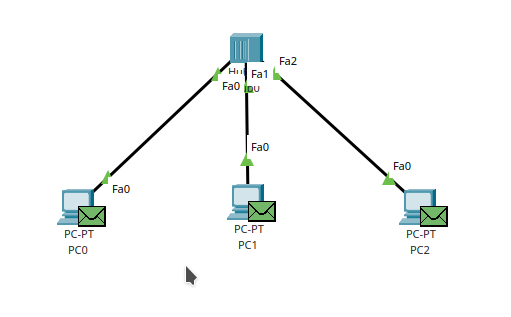
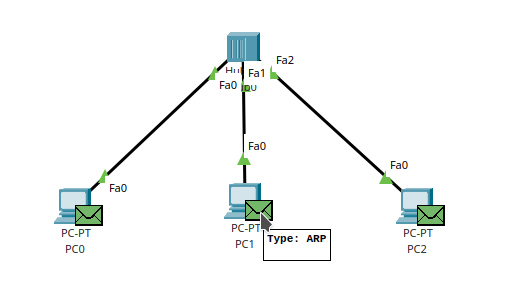
commit tugas3

Changed region(s): [[0.3816, 0.0918, 0.8806, 0.8878], [0.0881, 0.3061, 0.3816, 0.8571], [0.3523, 0.8265, 0.3816, 0.9184]]

diff --git a/praktikum3/README.md b/praktikum3/README.md
@@ -33,8 +33,51 @@ Setelah itu reset power cycle device nya
 
 ![hasil power cycle](asset/hasilpowercycle.png)
 
+Setelah semua persiapan sudah selesai, mari kita lakukan percobaan berikut ini
+1. ping pc0 ke pc1
 
-1. ping pc A ke pc B
+    Sebelum melakukan ping, mari kita cek terlebih dahulu kondisi tabel arp dari semua perangkat. Ketikkan 
+    
+        arp -d
+    
+    pada command prompt masing masing pc
 
-2. ping lagi dari pc A ke pc B
-3. ping pc A ke pc A
+    ![arp list](asset/arp%20list.png)
+
+    Setelah semua sudah dipastikan kosong tabel arp nya, sekarang kita jalankan terlebih dahulu simulation nya, karena dari capture persiapan setelah power cycle reset semua memiliki pesan arp yang siap dikirim. Pesan arp tersebut merupakan pesan awal yang tidak digunakan untuk mencari perangkat lain.
+
+    ![burn arp](asset/burn%20arp.png) 
+
+    Untuk mengawali percobaan ini, mari kita lakukan ping terlebih dahulu dari pc0, sebelumnya kita cek tabel arpnya sekali lagi lalu lakukan ping
+
+    ![arp and ping](asset/pc0%20ping1.png)
+
+    Pada gambar diatas, dapat kira lihat bahwa ada pesan arp berwarna hijau yang sedang melakukan discover pada broadcast domainnya. Setelah pesan arp tersebut sudah kembali, pc0 baru akan mengirimkan paket icmp ke tujuannya, seperti di bawah ini
+
+    ![ping packet](asset/pc0%20ping2.png)
+
+    Ketika ping sudah selesai dan semua paket icmp kembali, mari kita cek tabel arp pada pc0
+
+    ![arp check after](asset/pc0%20ping%203.png)
+
+    Disitu dapat kita lihat bahwa ip address dan mac address dari pc1 telah masuk ke tabel arp pc0. Sebelumnya sudah kita cek bahwa tabel arp pada pc1 masih kosong, apakah sekarang berubah? Mari kita cek bersama-sama
+
+    ![cek arp pc1](asset/pc1%20ping1.png)
+
+    Ternyata pada tabel arp pc1 sudah ditambahkan ip address dan mac address dari pc0. Mari kita lanjut ke percobaan berikutnya
+
+2. ping lagi dari pc0 ke pc1
+
+    Mari kita lakukan percobaan ping yang sama dengan percobaan sebelumnya. Disini kita akan melakukan pemantauan terhadap pesan arp. Apakah pesan arp akan dikirimkan lagi?
+
+    ![scene2.1](asset/scene2.1.png)
+
+    Ternyata pesan arp tidak lagi dikirimkan oleh pc0 dan langsung mengirimkan paket icmp. Hal itu karena pc0 tidak perlu melakukan discover lagi terhadap jaringannya sendiri.
+
+3. ping pc1 ke pc0
+
+    Percobaan berikutnya adalah ping dari pc1 dan pc0, proses apakah yang dijalankan pc1 ketika melakukan ping pertama kali ke pc0?
+
+    ![scene3.1](asset/scene3.1.png)
+
+    Pada percobaan ini dapat kita lihat bahwa pc1 langsung mengirimkan paket icmp ke pc0 karena ip address dan mac address dari pc0 sudah ada di dalam tabel arp pc1.
